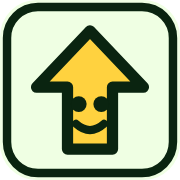
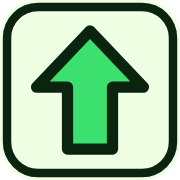
Green faceless arrow + cartoon intro
- Logo and hero mascot: brand-green arrow, smiley removed
- Add a cartoon intro (candles pop up, arrow rockets off, ONLY UP slams in with confetti); skippable, plays once per visit
- Regenerate favicon + share card in green

Claude-Session: https://claude.ai/code/session_01WirrBdQy2DKiVauvuJvTJp

Changed region(s): [[0.2778, 0.2222, 0.7222, 0.8056]]

diff --git a/web/index.html b/web/index.html
@@ -62,13 +62,52 @@
   @media (prefers-reduced-motion: reduce) { html { scroll-behavior: auto; } .candle { animation: none !important; } }
   .candle { transform-origin: bottom; animation: pop .5s cubic-bezier(.2,1.4,.4,1) both; }
   @keyframes pop { from { transform: scaleY(0); } to { transform: scaleY(1); } }
+
+  /* ---- intro ---- */
+  #intro { position: fixed; inset: 0; z-index: 9999; background: #EFFFE3; overflow: hidden;
+    background-image: linear-gradient(#D6F2C6 2px, transparent 2px), linear-gradient(90deg, #D6F2C6 2px, transparent 2px); background-size: 52px 52px; }
+  #intro.out { animation: introOut .6s cubic-bezier(.6,0,.4,1) forwards; }
+  @keyframes introOut { to { opacity: 0; transform: scale(1.18); visibility: hidden; } }
+  .intro-stage { position: absolute; inset: 0; margin: auto; width: min(620px, 94vw); height: min(470px, 76vh); }
+  .intro-candles { position: absolute; left: 0; right: 0; bottom: 6%; display: flex; align-items: flex-end; justify-content: center; gap: 12px; height: 40%; }
+  .intro-candles i { width: 26px; background: var(--green); border: 4px solid var(--ink); border-radius: 9px; transform-origin: bottom; transform: scaleY(0);
+    height: calc(16px + var(--d) * 22px); animation: candlePop .5s cubic-bezier(.2,1.65,.4,1) forwards; animation-delay: calc(var(--d) * .07s); }
+  @keyframes candlePop { to { transform: scaleY(1); } }
+  .intro-arrow { position: absolute; left: 50%; width: 116px; margin-left: -58px; bottom: -40%; opacity: 0;
+    animation: introRocket 1s cubic-bezier(.35,.75,.3,1) .45s forwards; filter: drop-shadow(4px 7px 0 rgba(10,36,16,.22)); }
+  @keyframes introRocket { 0% { bottom: -40%; opacity: 0; transform: scale(.7) rotate(-3deg); } 18% { opacity: 1; } 100% { bottom: 120%; opacity: 1; transform: scale(1.05) rotate(2deg); } }
+  .intro-word { position: absolute; left: 0; right: 0; top: 26%; text-align: center; font-family: 'Lilita One','Nunito',sans-serif;
+    font-size: clamp(46px, 13vw, 104px); line-height: 1; color: var(--ink); opacity: 0; transform: scale(2.5); text-shadow: 6px 6px 0 var(--green);
+    animation: introSlam .5s cubic-bezier(.2,1.7,.3,1) 1.3s forwards; }
+  @keyframes introSlam { 0% { opacity: 0; transform: scale(2.5) rotate(-5deg); } 60% { opacity: 1; transform: scale(.9) rotate(2deg); } 100% { opacity: 1; transform: scale(1) rotate(-1.5deg); } }
+  .intro-tag { position: absolute; left: 0; right: 0; top: 47%; text-align: center; opacity: 0; animation: introPop .4s cubic-bezier(.2,1.6,.4,1) 1.75s forwards; }
+  .intro-tag span { font-family: 'Lilita One', sans-serif; font-size: clamp(16px, 3.2vw, 24px); background: var(--yellow); color: var(--ink);
+    border: 3px solid var(--ink); border-radius: 12px; padding: 7px 18px; box-shadow: 4px 4px 0 var(--ink); display: inline-block; transform: rotate(-1.5deg); }
+  @keyframes introPop { from { opacity: 0; transform: translateY(14px) scale(.8); } to { opacity: 1; transform: translateY(0) scale(1); } }
+  .intro-stage.shake { animation: introShake .4s 1.3s; }
+  @keyframes introShake { 0%,100% { transform: translate(0,0); } 15% { transform: translate(-7px,5px); } 30% { transform: translate(7px,-5px); } 45% { transform: translate(-5px,-3px); } 60% { transform: translate(5px,3px); } 75% { transform: translate(-3px,2px); } }
+  .intro-confetti { position: absolute; top: 40%; left: 50%; width: 0; height: 0; z-index: 6; }
+  .confetti-bit { position: absolute; width: 13px; height: 13px; border-radius: 3px; border: 2px solid var(--ink); left: -6px; top: -6px; }
+  .intro-skip { position: absolute; bottom: 22px; left: 0; right: 0; text-align: center; font-weight: 800; font-size: 14px; color: var(--muted); opacity: .65; }
+  @media (prefers-reduced-motion: reduce) { #intro { display: none; } }
 </style>
 </head>
 <body>
 
+<div id="intro" aria-hidden="true">
+  <div class="intro-stage">
+    <div class="intro-candles"><i style="--d:0"></i><i style="--d:1"></i><i style="--d:2"></i><i style="--d:3"></i><i style="--d:4"></i><i style="--d:5"></i><i style="--d:6"></i><i style="--d:7"></i></div>
+    <svg class="intro-arrow" viewBox="0 0 44 48" aria-hidden="true"><polygon points="22,2 42,24 30,24 30,46 14,46 14,24 2,24" fill="#3BE06E" stroke="#0A2410" stroke-width="4" stroke-linejoin="round"></polygon></svg>
+    <div class="intro-word">ONLY UP</div>
+    <div class="intro-tag"><span>the chart that never goes down</span></div>
+  </div>
+  <div class="intro-confetti" id="confetti"></div>
+  <div class="intro-skip">tap anywhere to skip</div>
+</div>
+
 <header class="wrap" style="padding-top: 24px; display: flex; flex-wrap: wrap; align-items: center; justify-content: space-between; gap: 16px">
   <a href="#top" style="display: flex; align-items: center; gap: 12px; text-decoration: none">
-    <svg width="44" height="48" viewBox="0 0 44 48" aria-hidden="true"><polygon points="22,3 41,23 30,23 30,45 14,45 14,23 3,23" fill="#FFD23F" stroke="#0A2410" stroke-width="4" stroke-linejoin="round"></polygon><circle cx="18" cy="29" r="2.6" fill="#0A2410"></circle><circle cx="26" cy="29" r="2.6" fill="#0A2410"></circle><path d="M17 36 Q22 40 27 36" fill="none" stroke="#0A2410" stroke-width="2.6" stroke-linecap="round"></path></svg>
+    <svg width="44" height="48" viewBox="0 0 44 48" aria-hidden="true"><polygon points="22,3 41,23 30,23 30,45 14,45 14,23 3,23" fill="#3BE06E" stroke="#0A2410" stroke-width="4" stroke-linejoin="round"></polygon></svg>
     <span class="display" style="font-size: 32px; letter-spacing: 0.5px">ONLY UP</span>
   </a>
   <nav aria-label="Main" style="display: flex; flex-wrap: wrap; align-items: center; gap: 8px">
@@ -108,10 +147,7 @@
       <g class="candle" style="animation-delay:.47s"><line x1="391" y1="126" x2="391" y2="180" stroke="#0A2410" stroke-width="4" stroke-linecap="round"></line><rect x="376" y="136" width="30" height="36" rx="7" fill="#3BE06E" stroke="#0A2410" stroke-width="4"></rect></g>
       <g class="candle" style="animation-delay:.54s"><line x1="447" y1="88" x2="447" y2="152" stroke="#0A2410" stroke-width="4" stroke-linecap="round"></line><rect x="432" y="98" width="30" height="46" rx="7" fill="#3BE06E" stroke="#0A2410" stroke-width="4"></rect></g>
       <g class="candle" style="animation-delay:.61s"><line x1="503" y1="50" x2="503" y2="124" stroke="#0A2410" stroke-width="4" stroke-linecap="round"></line><rect x="488" y="60" width="30" height="56" rx="7" fill="#3BE06E" stroke="#0A2410" stroke-width="4"></rect></g>
-      <polygon points="104,26 160,84 128,84 128,160 80,160 80,84 48,84" fill="#FFD23F" stroke="#0A2410" stroke-width="6" stroke-linejoin="round"></polygon>
-      <circle cx="94" cy="106" r="7" fill="#0A2410"></circle><circle cx="114" cy="106" r="7" fill="#0A2410"></circle>
-      <circle cx="96" cy="104" r="2.2" fill="#FFFFFF"></circle><circle cx="116" cy="104" r="2.2" fill="#FFFFFF"></circle>
-      <path d="M90 126 Q104 140 118 126" fill="none" stroke="#0A2410" stroke-width="5" stroke-linecap="round"></path>
+      <polygon points="104,26 160,84 128,84 128,160 80,160 80,84 48,84" fill="#3BE06E" stroke="#0A2410" stroke-width="6" stroke-linejoin="round"></polygon>
       <path d="M36 44 L22 30 M30 62 L12 58 M172 44 L186 30 M178 64 L196 62" stroke="#0A2410" stroke-width="4" stroke-linecap="round"></path>
       <rect x="196" y="22" width="176" height="56" rx="22" fill="#FFFFFF" stroke="#0A2410" stroke-width="4"></rect>
       <path d="M204 62 L182 82 L216 70" fill="#FFFFFF" stroke="#0A2410" stroke-width="4" stroke-linejoin="round"></path>
@@ -263,6 +299,41 @@
   <span style="max-width: 640px">Not financial advice. No promised returns. The price is in SOL and its dollar value moves with SOL.</span>
   <span style="display: flex; gap: 20px"><a href="docs.html">Docs</a><a href="docs.html#sim">Simulator</a><a href="#faq">FAQ</a><a href="#launch">Launch</a></span>
 </footer>
+
+<script>
+(function () {
+  "use strict";
+  var intro = document.getElementById('intro');
+  if (!intro) return;
+  var reduce = window.matchMedia && window.matchMedia('(prefers-reduced-motion: reduce)').matches;
+  var seen = false; try { seen = sessionStorage.getItem('ou_intro') === '1'; } catch (e) {}
+  if (reduce || seen) { if (intro.parentNode) intro.parentNode.removeChild(intro); return; }
+  var stage = intro.querySelector('.intro-stage');
+  var tShake = setTimeout(function () { if (stage) stage.classList.add('shake'); burst(); }, 1300);
+  function burst() {
+    var c = document.getElementById('confetti'); if (!c || !c.animate) return;
+    var cols = ['#3BE06E', '#FFD23F', '#0A2410', '#2BC55C', '#FFFFFF'];
+    for (var i = 0; i < 48; i++) {
+      var d = document.createElement('span'); d.className = 'confetti-bit'; d.style.background = cols[i % cols.length];
+      c.appendChild(d);
+      var ang = Math.random() * 6.283, dist = 130 + Math.random() * 280;
+      var dx = Math.cos(ang) * dist, dy = Math.sin(ang) * dist - 50;
+      d.animate([
+        { transform: 'translate(0,0) rotate(0) scale(1)', opacity: 1 },
+        { transform: 'translate(' + dx.toFixed(0) + 'px,' + dy.toFixed(0) + 'px) rotate(' + (Math.random() * 720 - 360).toFixed(0) + 'deg) scale(.5)', opacity: 0 }
+      ], { duration: 950 + Math.random() * 550, easing: 'cubic-bezier(.2,.7,.3,1)', fill: 'forwards' });
+    }
+  }
+  var done = false, tEnd = setTimeout(finish, 2750);
+  function finish() {
+    if (done) return; done = true; clearTimeout(tShake); clearTimeout(tEnd);
+    try { sessionStorage.setItem('ou_intro', '1'); } catch (e) {}
+    intro.classList.add('out');
+    setTimeout(function () { if (intro.parentNode) intro.parentNode.removeChild(intro); }, 650);
+  }
+  ['click', 'keydown', 'touchstart', 'wheel'].forEach(function (ev) { intro.addEventListener(ev, finish, { passive: true }); });
+})();
+</script>
 
 </body>
 </html>
